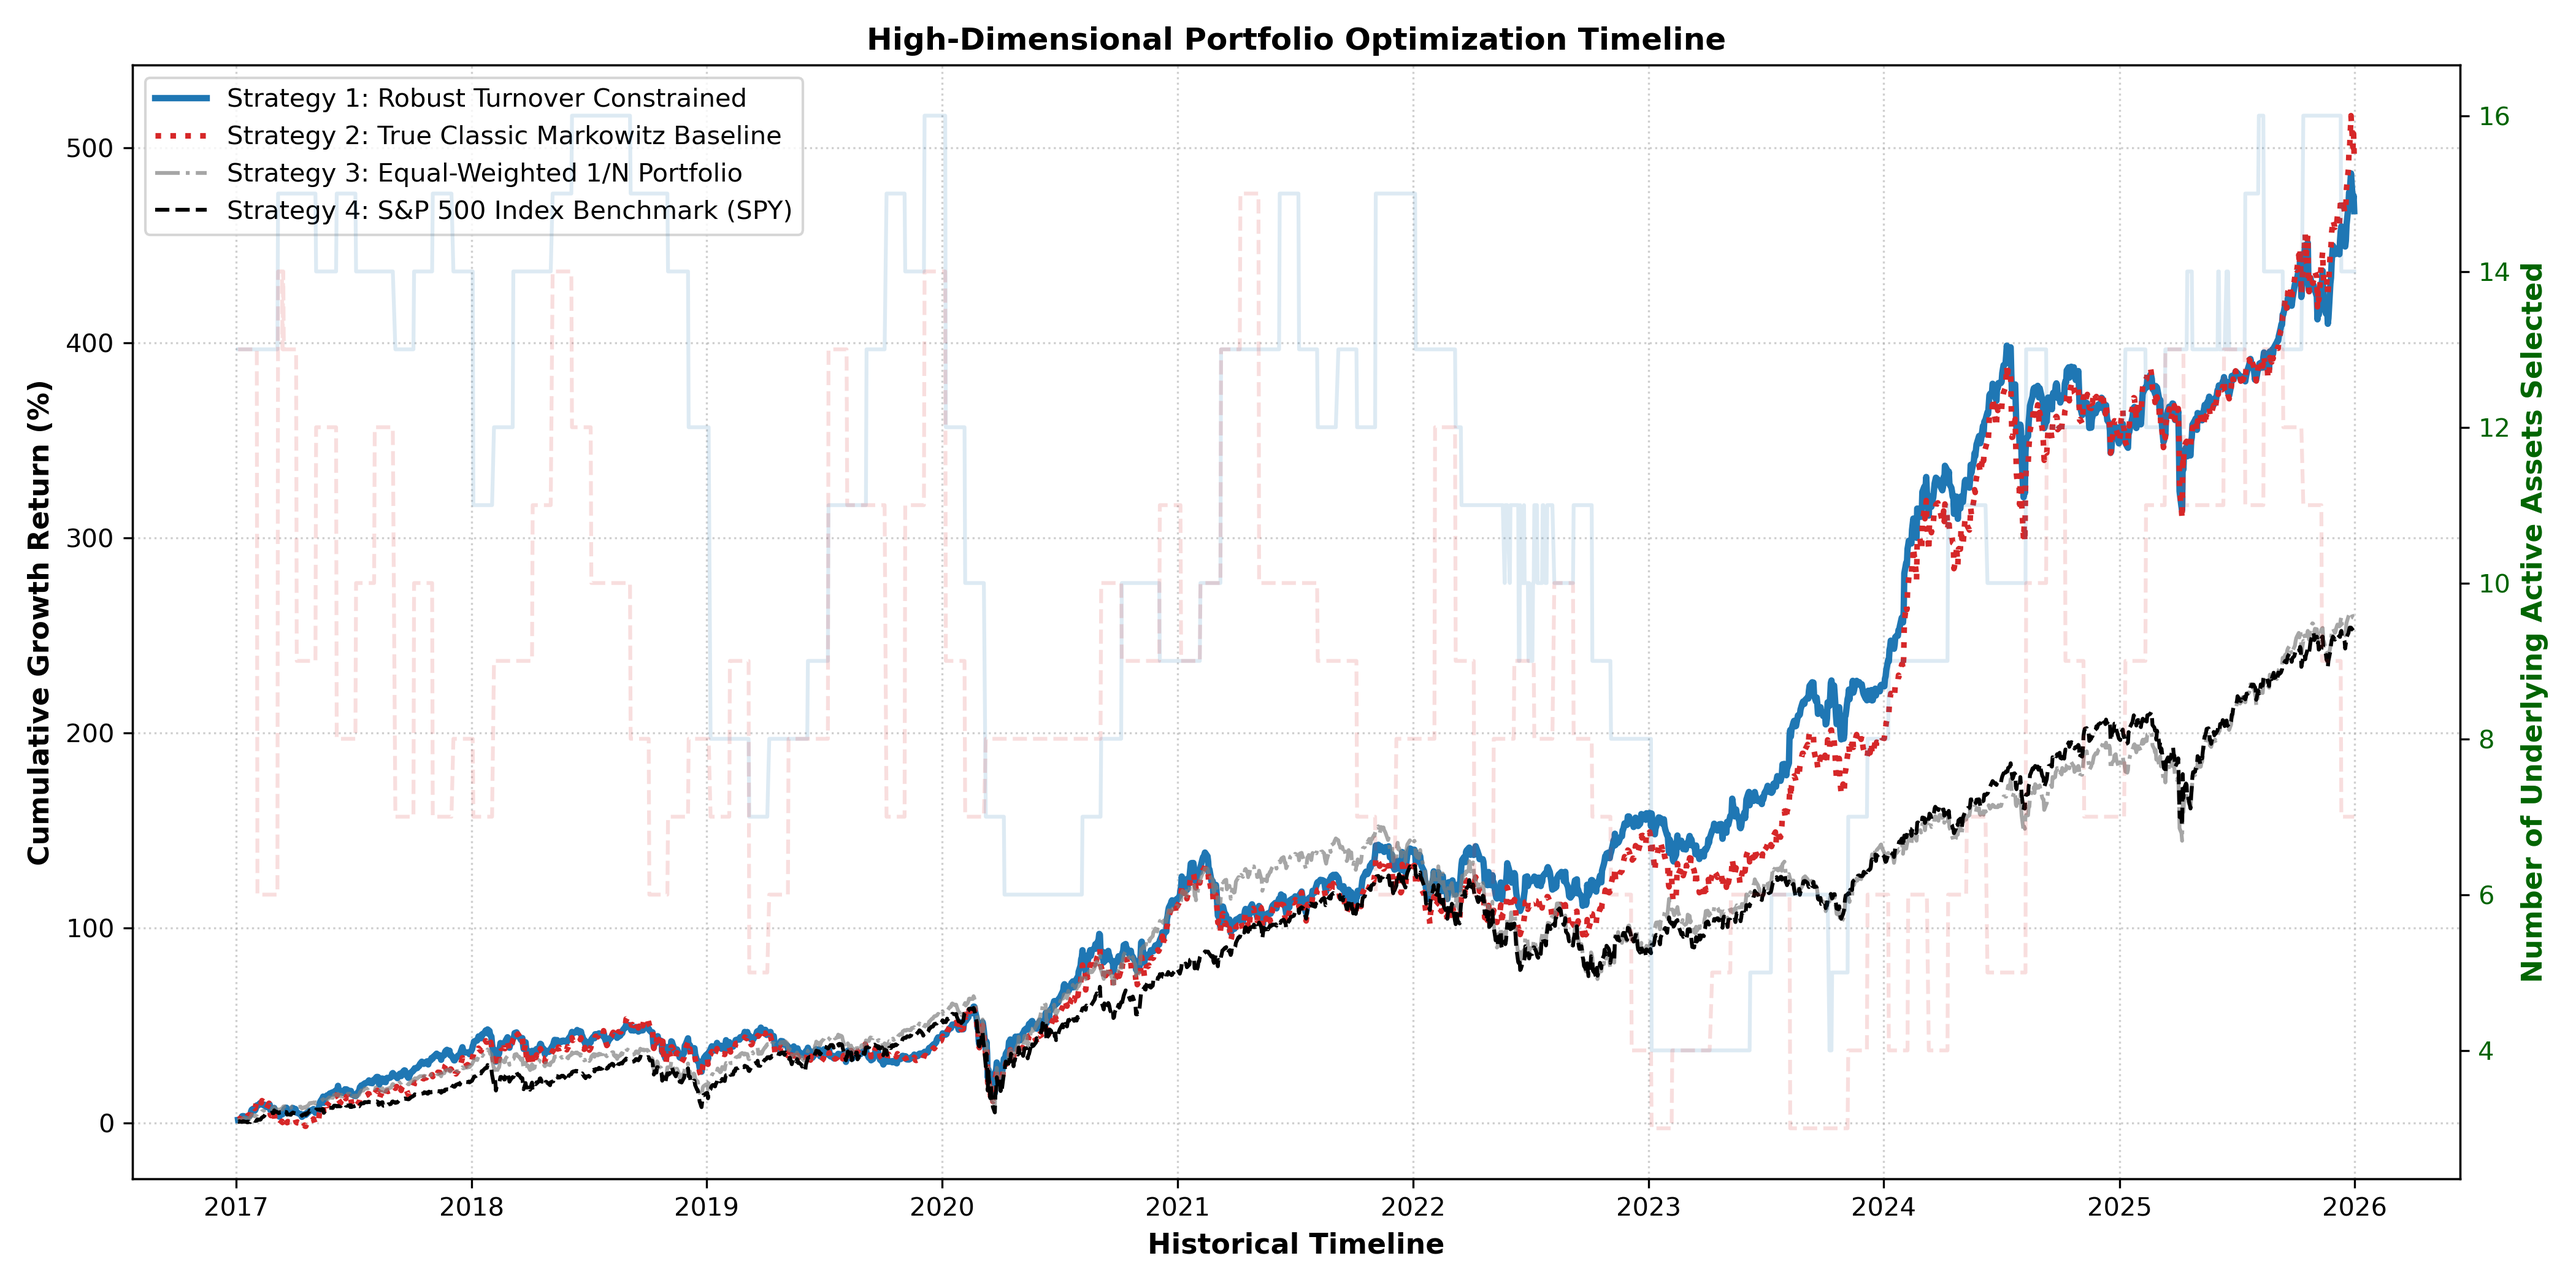
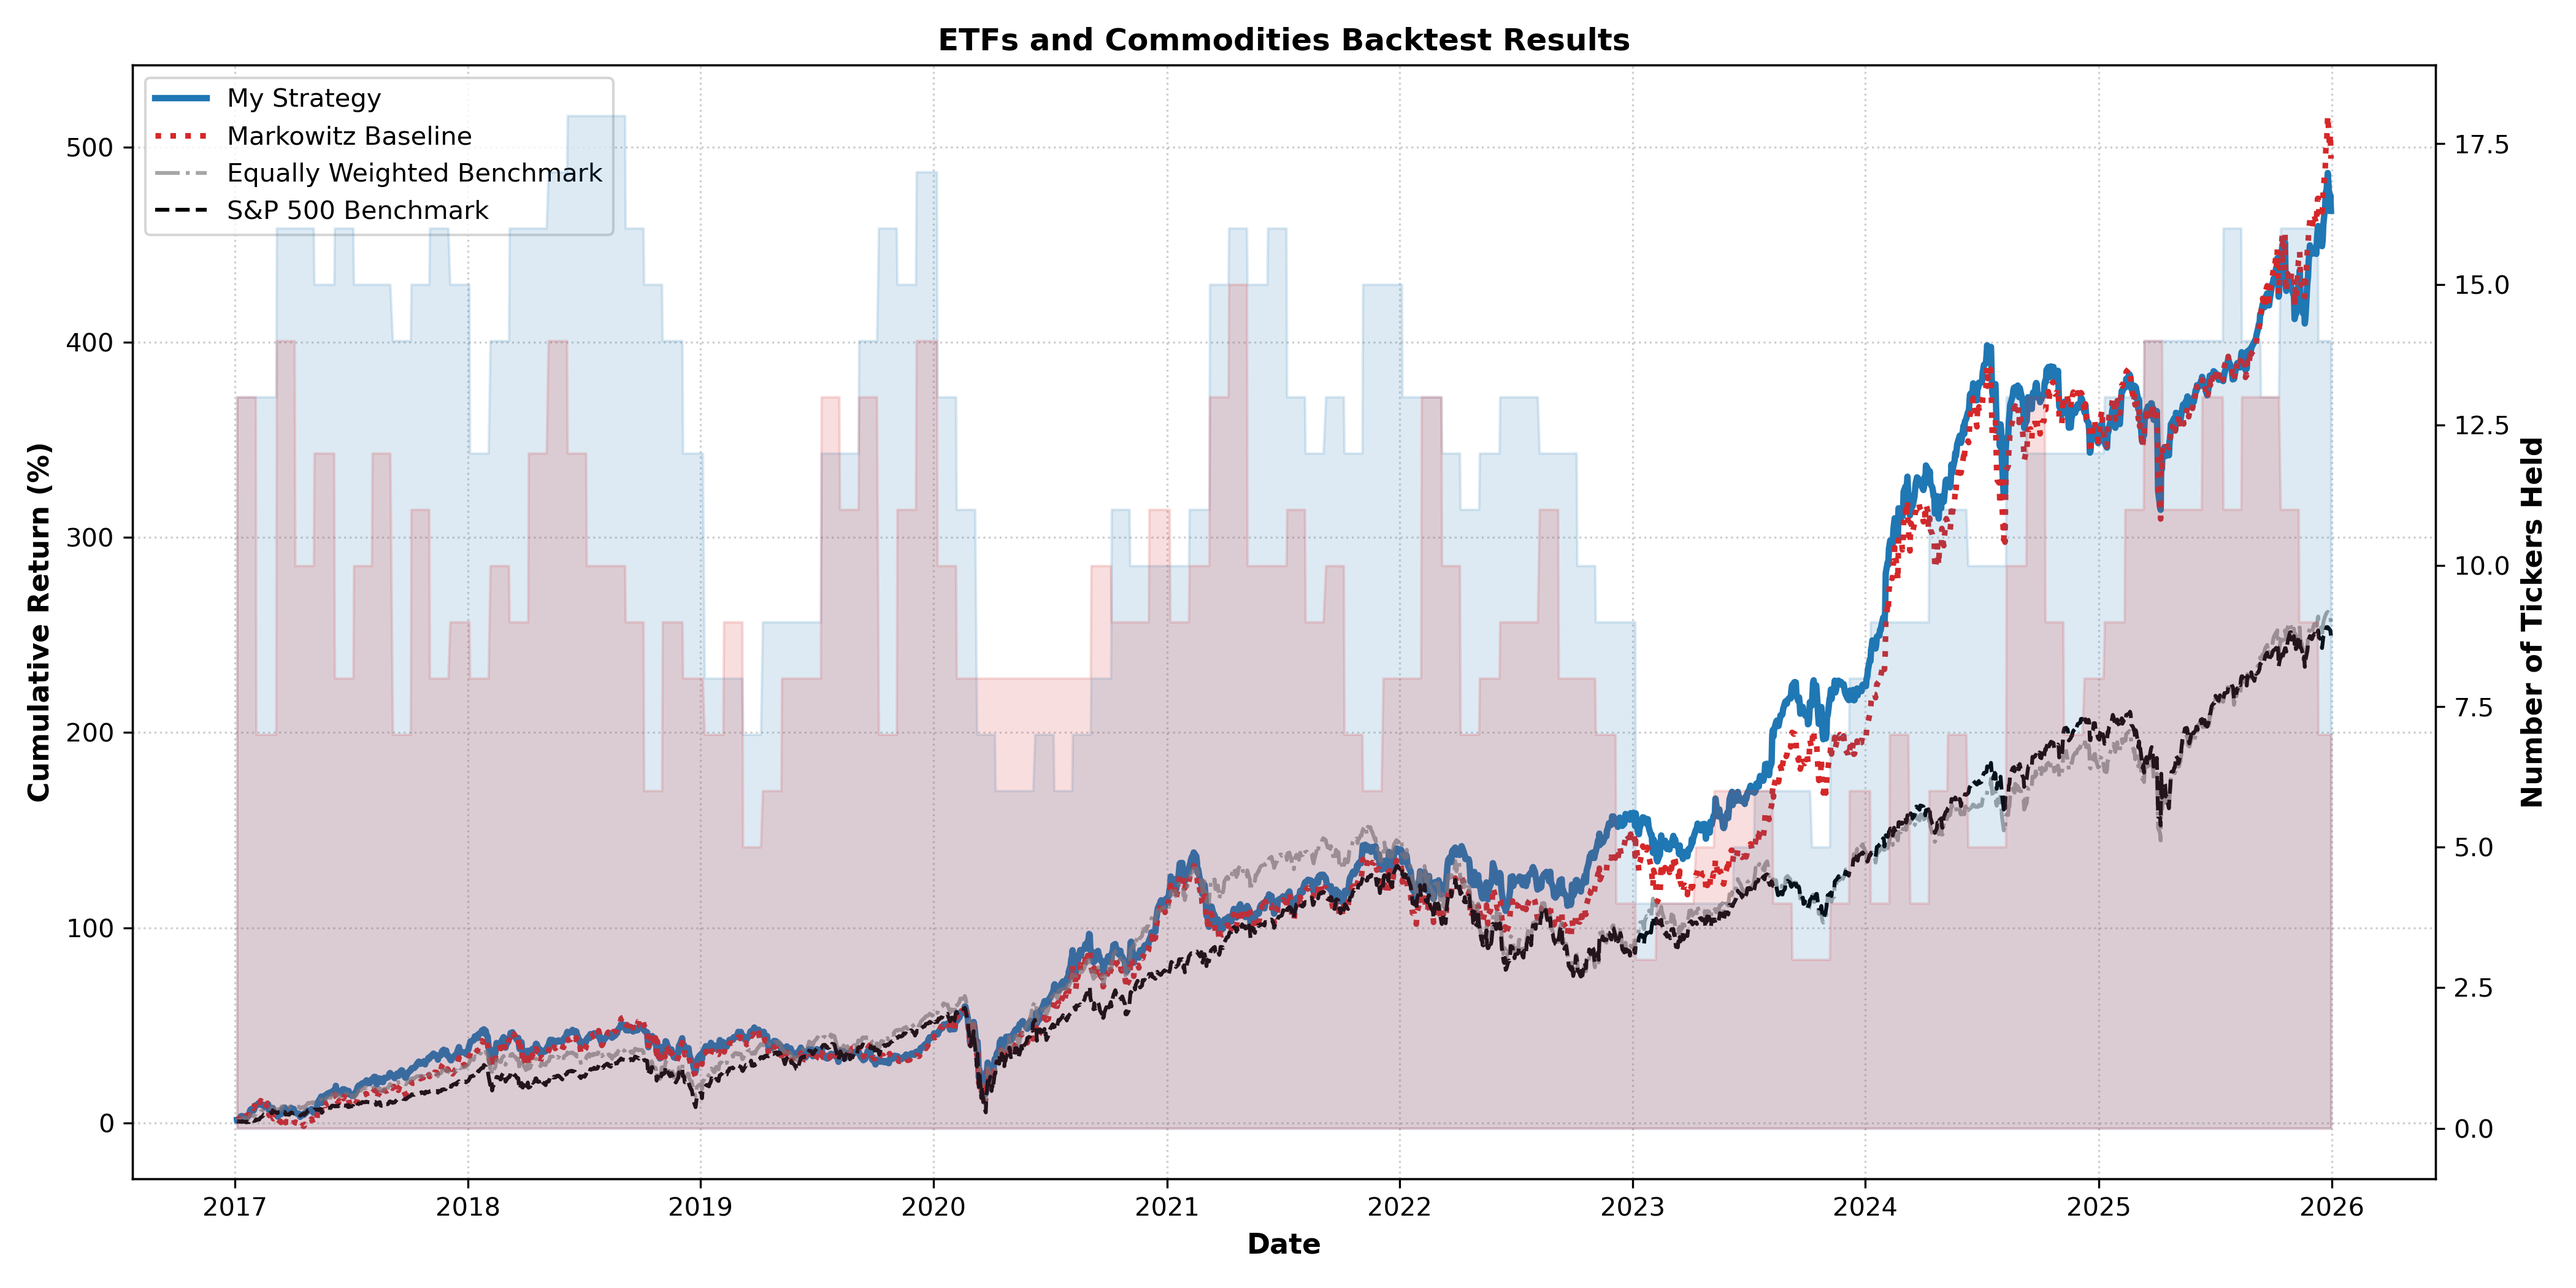
backtest again

diff --git a/backtest1.py b/backtest1.py
@@ -227,8 +227,8 @@ def run_hd_backtest(df_returns, benchmark_returns, lookback_window=252, rebalanc
         strat_spy_returns.append(benchmark_returns.loc[current_date])
         
         backtest_dates.append(current_date)
-        active_robust_counts.append(np.sum(w_robust > 0.005))
-        active_markowitz_counts.append(np.sum(w_markowitz > 0.005))
+        active_robust_counts.append(np.sum(w_robust > 0.001))
+        active_markowitz_counts.append(np.sum(w_markowitz > 0.001))
 
     res_df = pd.DataFrame({
         "Strategy_Robust": strat_robust_returns,
@@ -320,23 +320,23 @@ if __name__ == "__main__":
 
     # Visualization Generation Pipeline
     fig, ax1 = plt.subplots(figsize=(14, 7))
-    ax1.plot(res.index, ((1 + res["Strategy_Robust"]).cumprod() - 1)*100, label="Strategy 1: Robust Turnover Constrained", color="#1f77b4", linewidth=2.5)
-    ax1.plot(res.index, ((1 + res["Strategy_Markowitz"]).cumprod() - 1)*100, label="Strategy 2: True Classic Markowitz Baseline", color="#d62728", linestyle=":", linewidth=2.2)
-    ax1.plot(res.index, ((1 + res["Strategy_EqualWeight"]).cumprod() - 1)*100, label="Strategy 3: Equal-Weighted 1/N Portfolio", color="grey", linestyle="-.", alpha=0.7)
-    ax1.plot(res.index, ((1 + res["Benchmark_SPY"]).cumprod() - 1)*100, label="Strategy 4: S&P 500 Index Benchmark (SPY)", color="black", linestyle="--", linewidth=1.5)
-    
-    ax1.set_title(f"High-Dimensional Portfolio Optimization Timeline", fontsize=12, fontweight="bold")
-    ax1.set_xlabel("Historical Timeline", fontsize=11, fontweight="bold")
-    ax1.set_ylabel("Cumulative Growth Return (%)", fontsize=11, fontweight="bold")
+    ax1.plot(res.index, ((1 + res["Strategy_Robust"]).cumprod() - 1)*100, label="My Strategy", color="#1f77b4", linewidth=2.5)
+    ax1.plot(res.index, ((1 + res["Strategy_Markowitz"]).cumprod() - 1)*100, label="Markowitz Baseline", color="#d62728", linestyle=":", linewidth=2.2)
+    ax1.plot(res.index, ((1 + res["Strategy_EqualWeight"]).cumprod() - 1)*100, label="Equally Weighted Benchmark", color="grey", linestyle="-.", alpha=0.7)
+    ax1.plot(res.index, ((1 + res["Benchmark_SPY"]).cumprod() - 1)*100, label="S&P 500 Benchmark", color="black", linestyle="--", linewidth=1.5)
+
+    ax1.set_title(f"ETFs and Commodities Backtest Results", fontsize=12, fontweight="bold")
+    ax1.set_xlabel("Date", fontsize=11, fontweight="bold")
+    ax1.set_ylabel("Cumulative Return (%)", fontsize=11, fontweight="bold")
     ax1.grid(True, linestyle=":", alpha=0.6)
     ax1.legend(loc="upper left")
 
     # Secondary Asset Sparsity Overlay
     ax2 = ax1.twinx()
-    ax2.plot(res.index, res["Active_Assets_Robust"], color="#1f77b4", alpha=0.15, linestyle="-")
-    ax2.plot(res.index, res["Active_Assets_Markowitz"], color="#d62728", alpha=0.15, linestyle="--")
-    ax2.set_ylabel("Number of Underlying Active Assets Selected", color="darkgreen", fontsize=11, fontweight="bold")
-    ax2.tick_params(axis='y', labelcolor="darkgreen")
+    ax2.fill_between(res.index, res["Active_Assets_Robust"], color="#1f77b4", alpha=0.15, linestyle="-")
+    ax2.fill_between(res.index, res["Active_Assets_Markowitz"], color="#d62728", alpha=0.15, linestyle="-")
+    ax2.set_ylabel("Number of Tickers Held", fontsize=11, fontweight="bold")
+    ax2.tick_params(axis='y')
 
     plt.tight_layout()
     plt.savefig("ETF_backtest.png", dpi=300)

diff --git a/backtest2.py b/backtest2.py
@@ -344,23 +344,23 @@ if __name__ == "__main__":
 
     # Visualization Generating Sequence
     fig, ax1 = plt.subplots(figsize=(14, 7))
-    ax1.plot(res.index, ((1 + res["Strategy_Robust"]).cumprod() - 1) * 100, label="Turnover Constrained Matrix", color="#1f77b4", linewidth=2.5)
-    ax1.plot(res.index, ((1 + res["Strategy_Markowitz"]).cumprod() - 1) * 100, label="Classic Markowitz Baseline", color="#d62728", linestyle=":", linewidth=2.2)
-    ax1.plot(res.index, ((1 + res["Strategy_EqualWeight"]).cumprod() - 1) * 100, label="Equal-Weighted 1/N Portfolio", color="grey", linestyle="-.", alpha=0.7)
-    ax1.plot(res.index, ((1 + res["SP500"]).cumprod() - 1) * 100, label="S&P 500 Index Market", color="black", linestyle="--", linewidth=1.5)
+    ax1.plot(res.index, ((1 + res["Strategy_Robust"]).cumprod() - 1) * 100, label="My Strategy", color="#1f77b4", linewidth=2.5)
+    ax1.plot(res.index, ((1 + res["Strategy_Markowitz"]).cumprod() - 1) * 100, label="Markowitz Baseline", color="#d62728", linestyle=":", linewidth=2.2)
+    ax1.plot(res.index, ((1 + res["Strategy_EqualWeight"]).cumprod() - 1) * 100, label="Equally Weighted Benchmark", color="grey", linestyle="-.", alpha=0.7)
+    ax1.plot(res.index, ((1 + res["SP500"]).cumprod() - 1) * 100, label="S&P 500 Benchmark", color="black", linestyle="--", linewidth=1.5)
     
-    ax1.set_xlabel("Historical Timeline", fontsize=11, fontweight="bold")
-    ax1.set_ylabel("Cumulative Performance Return (%)", fontsize=11, fontweight="bold")
+    ax1.set_xlabel("Date", fontsize=11, fontweight="bold")
+    ax1.set_ylabel("Cumulative Return (%)", fontsize=11, fontweight="bold")
     ax1.grid(True, linestyle=":", alpha=0.6)
     ax1.legend(loc="upper left")
 
     ax2 = ax1.twinx()
-    ax2.plot(res.index, res["Active_Assets_Robust"], color="#1f77b4", alpha=0.15, linestyle="-")
-    ax2.plot(res.index, res["Active_Assets_Markowitz"], color="#d62728", alpha=0.15, linestyle="--")
-    ax2.set_ylabel("Number of Active Assets Selected", color="darkgreen", fontsize=11, fontweight="bold")
-    ax2.tick_params(axis='y', labelcolor="darkgreen")
+    ax2.fill_between(res.index, res["Active_Assets_Robust"], color="#1f77b4", alpha=0.15, linestyle="-")
+    ax2.fill_between(res.index, res["Active_Assets_Markowitz"], color="#d62728", alpha=0.15, linestyle="-")
+    ax2.set_ylabel("Number of Tickers Held", fontsize=11, fontweight="bold")
+    ax2.tick_params(axis='y')
 
-    plt.title("Fully Cleaned Mean-Variance & CVaR Strategy Backtest Engine", fontsize=12, fontweight="bold", pad=15)
+    plt.title("S&P 500 Backtest Results", fontsize=12, fontweight="bold", pad=15)
     plt.tight_layout()
     plt.savefig("SP500_backtest.png", dpi=300)
     plt.show()

diff --git a/backtest0.py b/backtest0.py
@@ -178,10 +178,11 @@ def plot_comparative_results(results_df):
     ax1.grid(True, linestyle=":", alpha=0.5, zorder=0)
 
     ax2 = ax1.twinx()
-    ax2.fill_between(results_df.index, results_df["Active_Assets_Turnover"], step="pre", color="#2ca02c", alpha=0.06, label="Turnover Asset Count", zorder=1)
+    ax2.fill_between(results_df.index, results_df["Active_Assets_Turnover"], color="#317abf", alpha=0.15, linestyle="-", zorder = 1)
+    ax2.fill_between(results_df.index, results_df["Active_Assets_Baseline"], color="#dc1919", alpha=0.15, linestyle="-", zorder = 1)
 
-    ax2.set_ylabel("Number of Tickers Held", fontsize=11, fontweight="bold", color="#2ca02c")
-    ax2.tick_params(axis="y", labelcolor="#2ca02c")
+    ax2.set_ylabel("Number of Tickers Held", fontsize=11, fontweight="bold")
+    ax2.tick_params(axis="y")
     ax2.set_ylim(0, max(results_df["Active_Assets_Turnover"]) + 5)
 
     ax1.set_zorder(ax2.get_zorder() + 1)
@@ -191,7 +192,7 @@ def plot_comparative_results(results_df):
     lines2, labels2 = ax2.get_legend_handles_labels()
     ax1.legend(lines1 + lines2, labels1 + labels2, loc="upper left", framealpha=0.9)
 
-    plt.title("Markowitz Backtest Comparison (Initial Deployment from Zero)", fontsize=13, fontweight="bold", pad=15)
+    plt.title("S&P 100 Backtest Results", fontsize=13, fontweight="bold", pad=15)
     fig.tight_layout()
     plt.savefig("SP100_backtest.png", dpi=300)
     plt.show()
